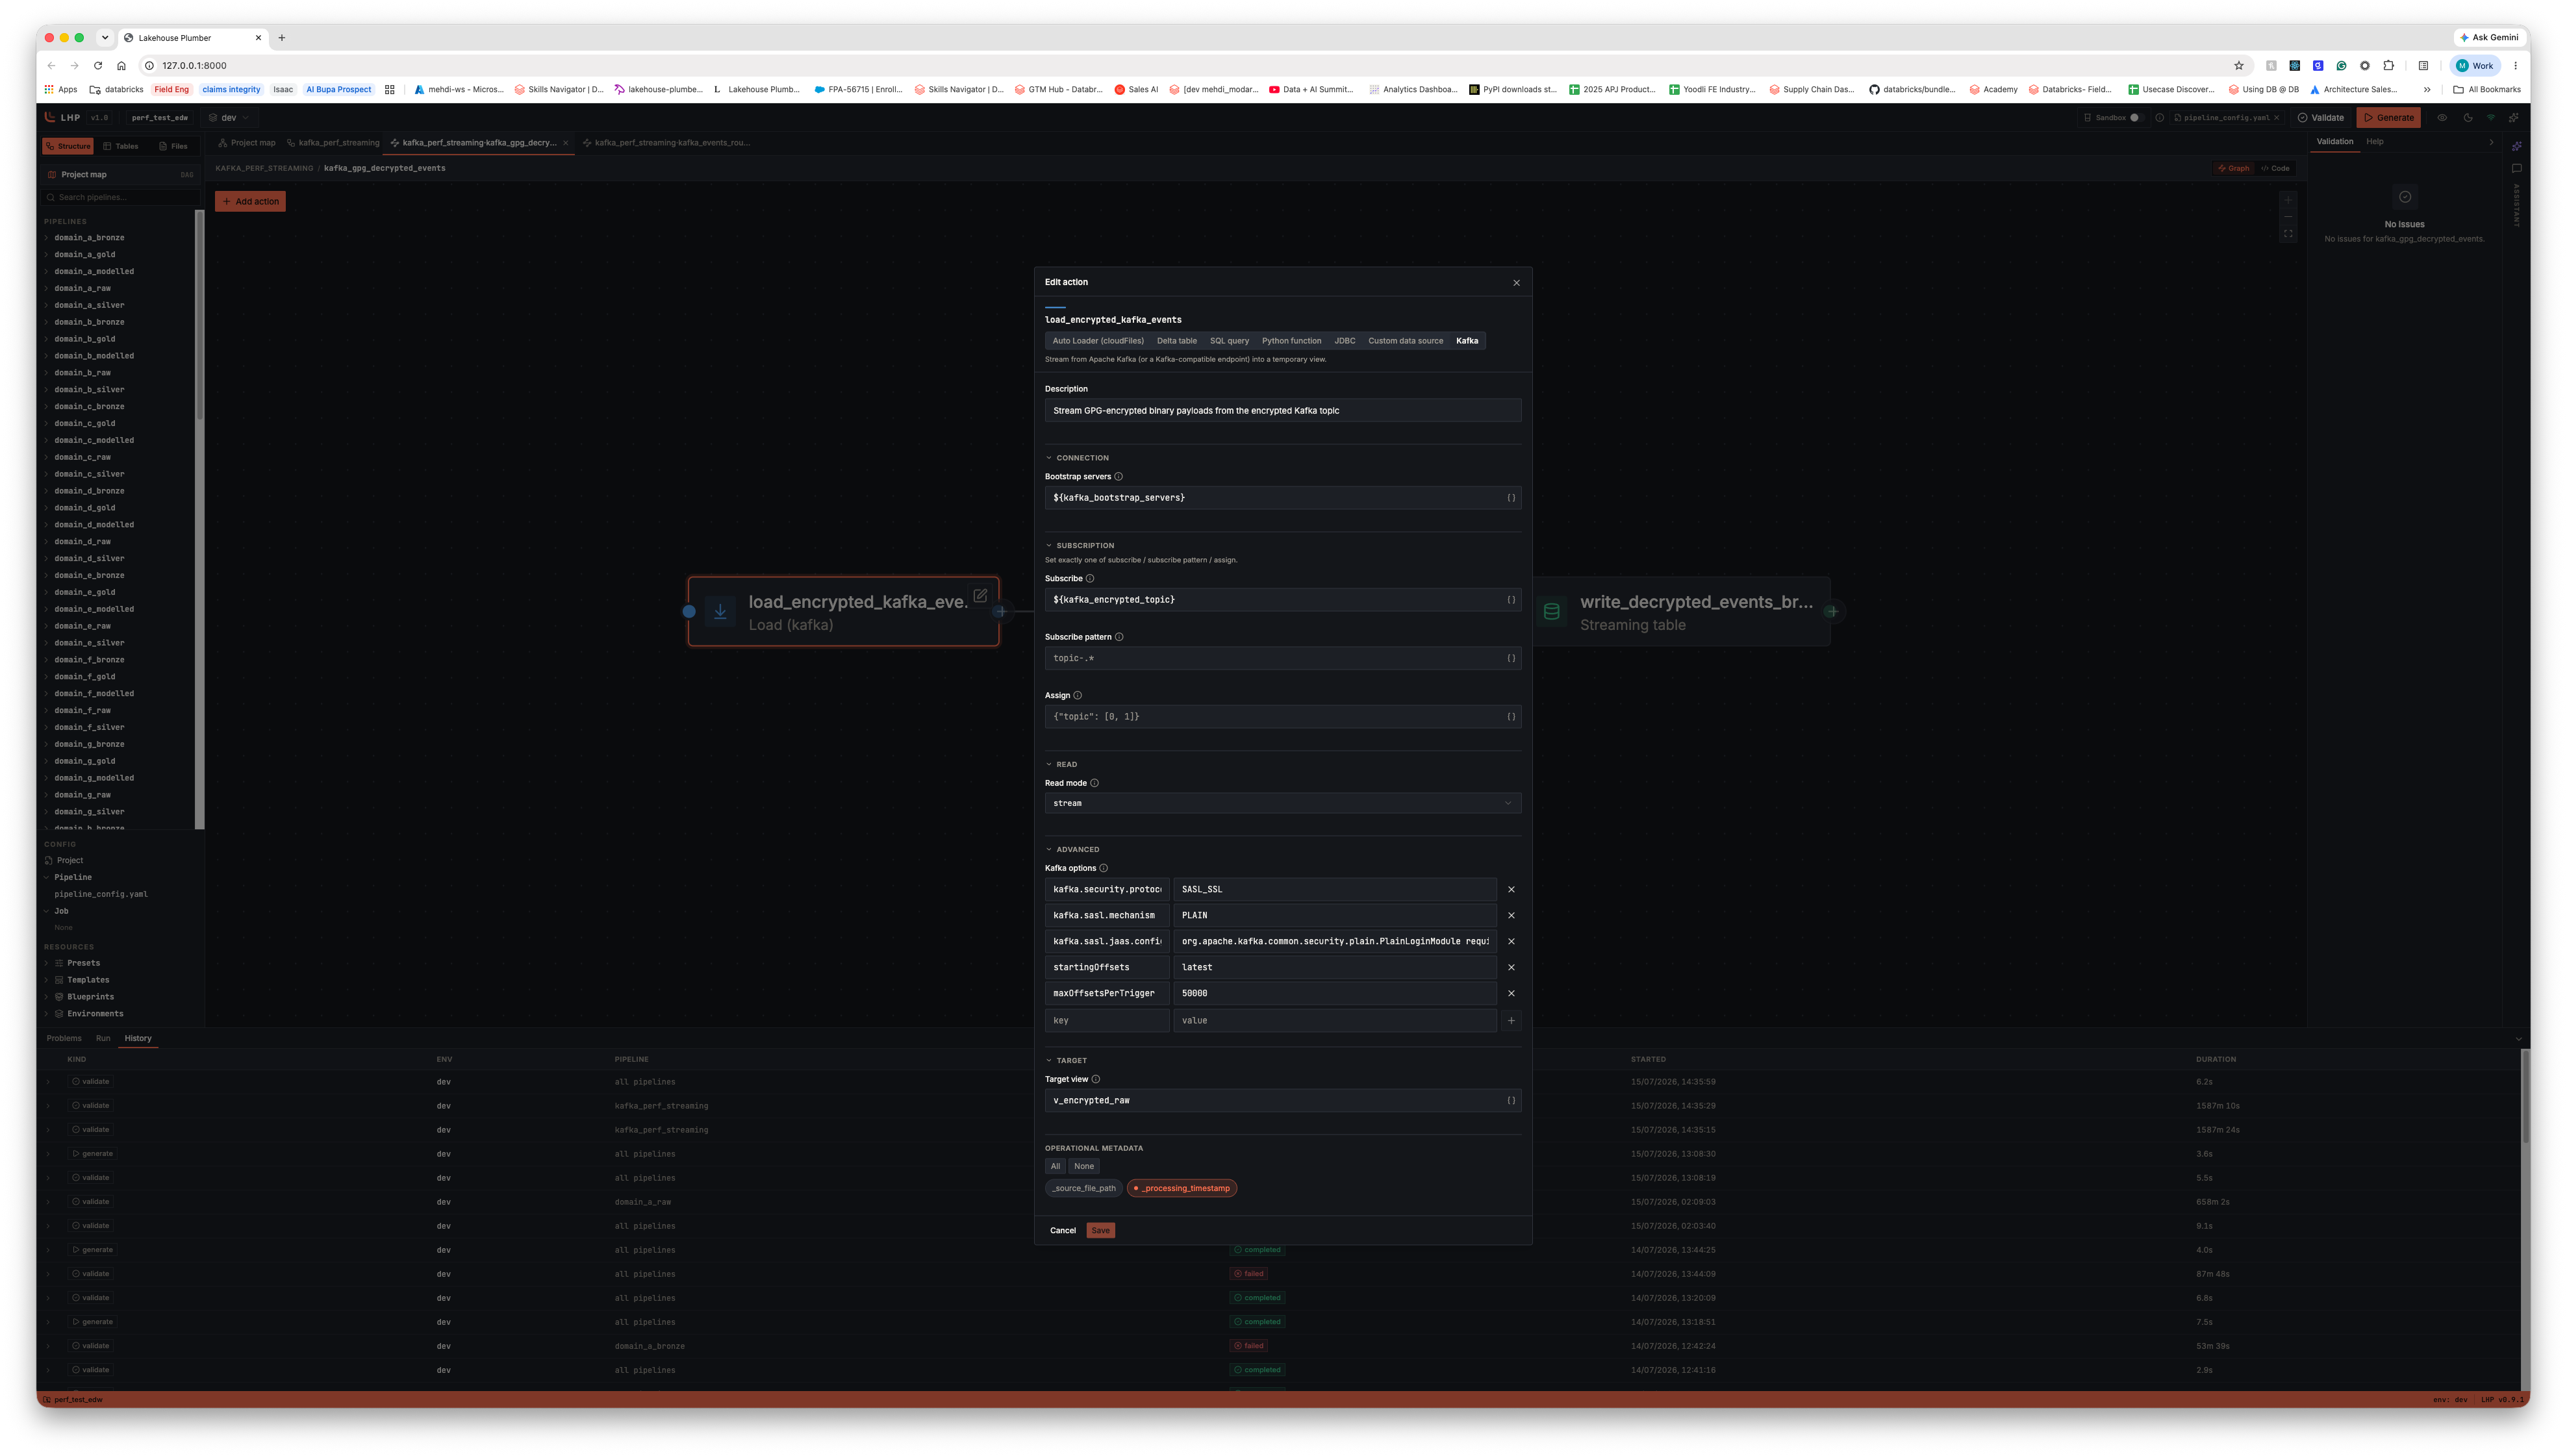
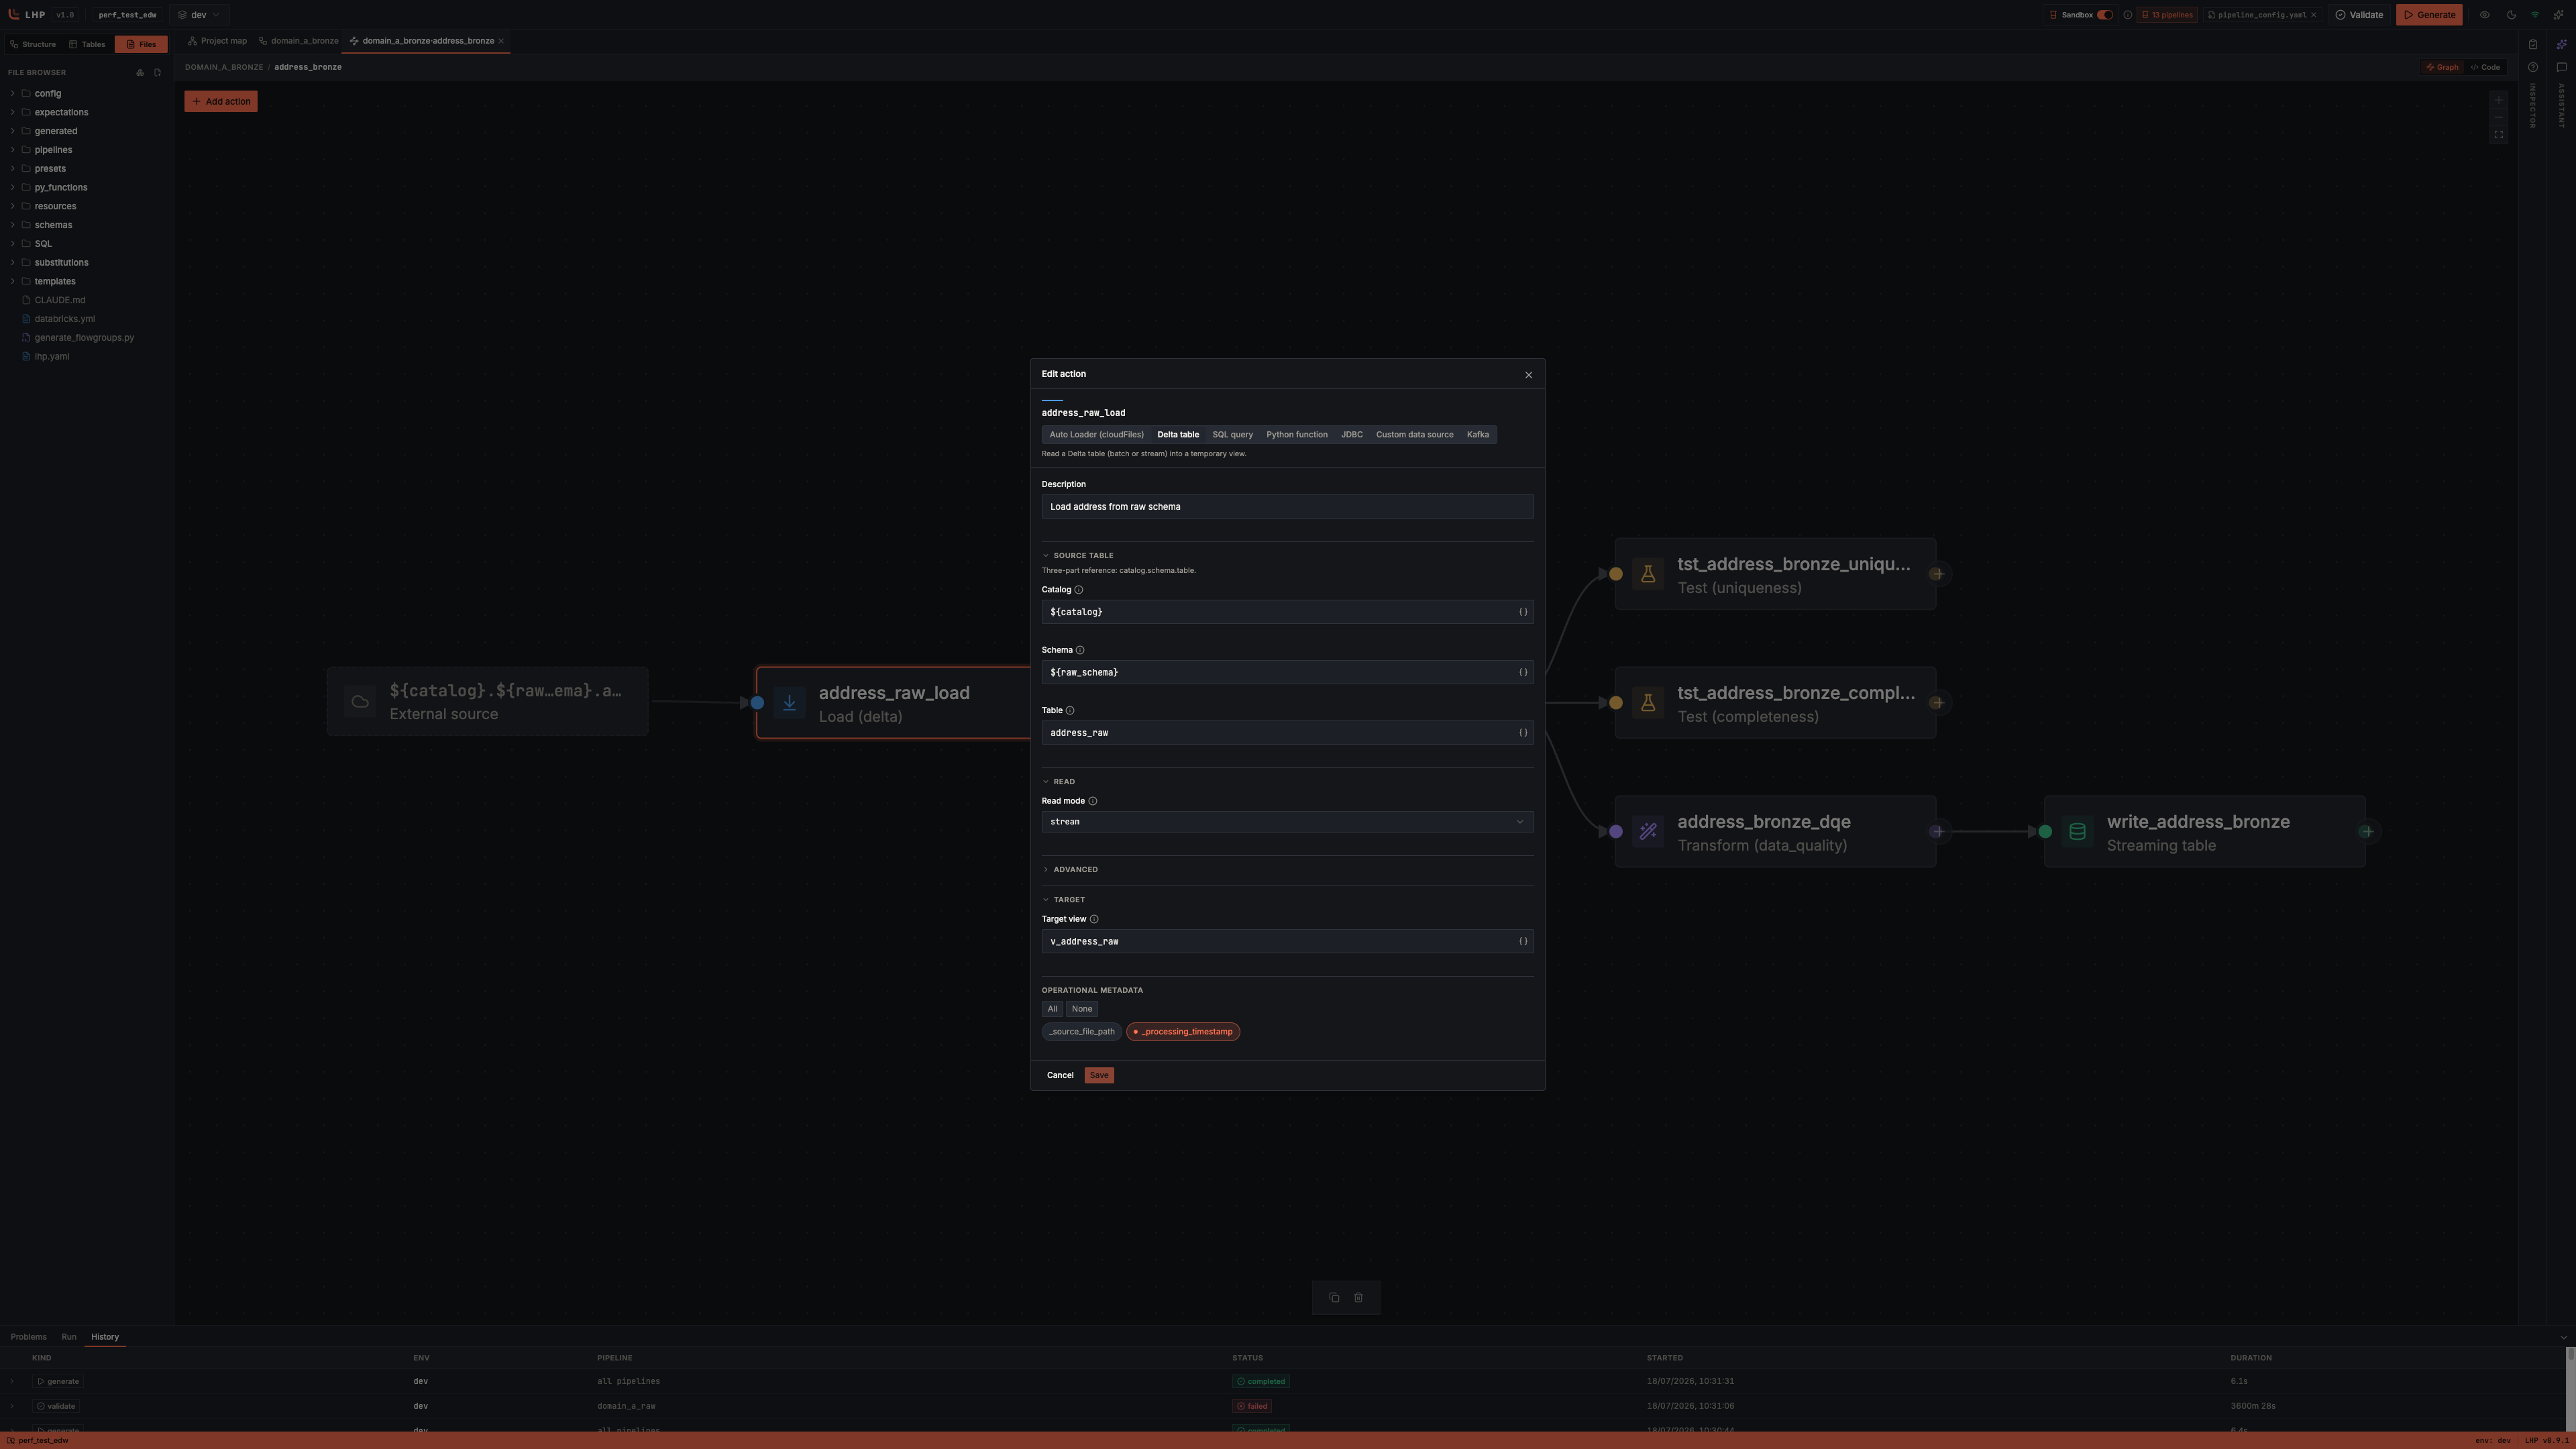
fix(docs): update image URLs in README for consistency with main branch (#184)

Pull request: fix(docs): update image URLs in README for consistency with main branch

diff --git a/README.md b/README.md
@@ -23,7 +23,7 @@
 ## LHP Web IDE (Beta)
 
 <div align="center">
-  <img src="https://raw.githubusercontent.com/Mmodarre/Lakehouse_Plumber/lhp_web.png" alt="LakehousePlumber Web IDE" width="80%">
+  <img src="https://raw.githubusercontent.com/Mmodarre/Lakehouse_Plumber/main/lhp_web.png" alt="LakehousePlumber Web IDE" width="80%">
 </div>
 
 Introducing LHP Web Idea, the best place to configure, monitor and develop LHP flowgroups and pipelines. 
@@ -42,8 +42,8 @@ lhp web --port 8000
 
 <table>
 <tr>
-<td><img src="https://raw.githubusercontent.com/Mmodarre/Lakehouse_Plumber/lhp_web_designer.png" alt="LakehousePlumber Web IDE" width="100%"></td>
-<td><img src="https://raw.githubusercontent.com/Mmodarre/Lakehouse_Plumber/lhp_web_designer_actions.png" alt="LakehousePlumber Web IDE — action editor" width="100%"></td>
+<td><img src="https://raw.githubusercontent.com/Mmodarre/Lakehouse_Plumber/main/lhp_web_designer.png" alt="LakehousePlumber Web IDE" width="100%"></td>
+<td><img src="https://raw.githubusercontent.com/Mmodarre/Lakehouse_Plumber/main/lhp_web_designer_actions.png" alt="LakehousePlumber Web IDE — action editor" width="100%"></td>
 </tr>
 </table>
 